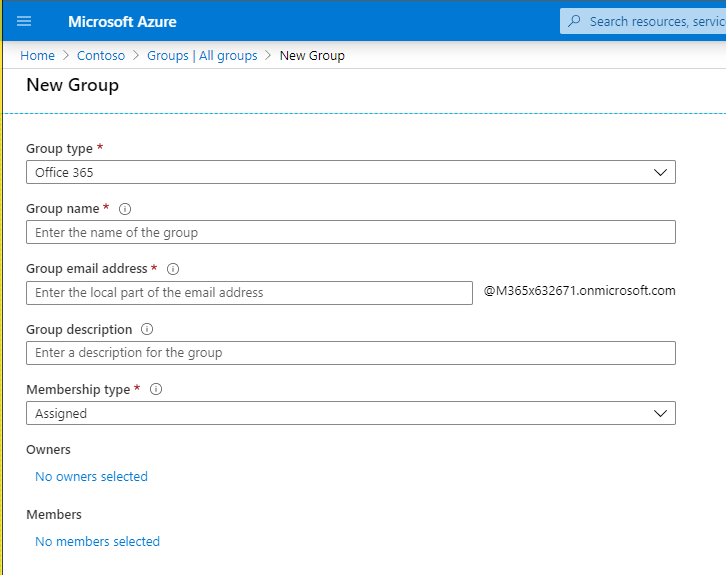
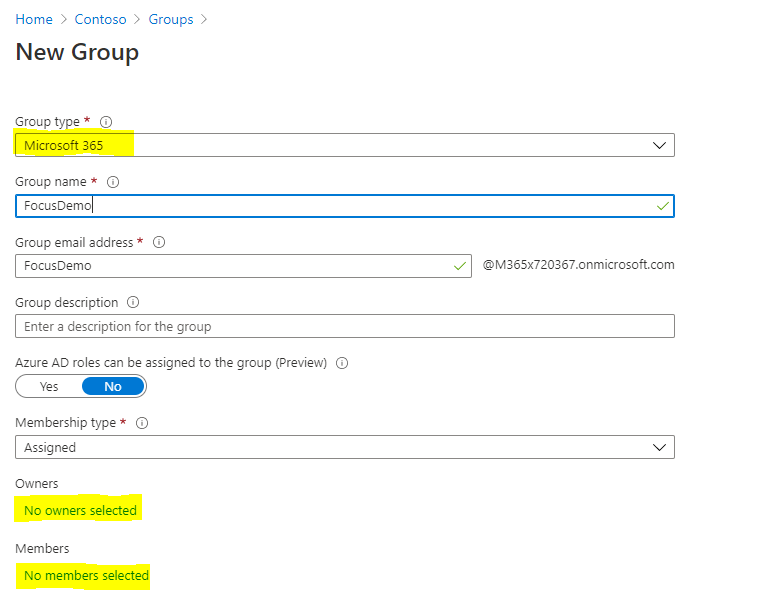
Update module 1 to use the latest term

Changed region(s): [[0.0, 0.0, 1.0, 1.0], [0.9091, 0.2957, 0.9394, 0.3252]]

diff --git a/exercises/Teams/1.Set up Teams.md b/exercises/Teams/1.Set up Teams.md
@@ -6,14 +6,14 @@ In this module you will set up the Teams environment for workshop and learn basi
 2. Navigate to Azure Active Directory > Groups  
 ![Azure AAD](imgs/aad.PNG "Azure active directory")  
 ![Azure AAD Groups](imgs/aadgroup.png "Azure AAD Groups")  
-3. Create a new Office 365 group  
+3. Create a new Microsoft 365 group  
 ![Azure AAD New Group Button](imgs/addnewgroup1.png "Azure AAD New Group Button")  
 ![Azure AAD New Group Panel](imgs/addnewgroup2.png "Azure AAD New Group Panel")  
-4. Add your admin account as the owner and member, add five other Office 365 accounts as members too
+4. Add your admin account as the owner and member, add five other Microsoft 365 accounts as members too
 
 ## Create a Teams team  
 1. Login into [Microsoft Teams](https://teams.microsoft.com), please select the web app option for debugging  
-2. Create a team from the previous Office 365 group  
+2. Create a team from the previous Microsoft 365 group  
 ![Create team button](imgs/createTeamsBtn.PNG "Create team button")
 ![Create team from O365 group](imgs/createTeamsfrom.PNG "Create team from O365 group")
 ![Create team from O365 group](imgs/createTeamsfromO365.PNG "Create team from O365 group")
@@ -22,7 +22,8 @@ In this module you will set up the Teams environment for workshop and learn basi
 
 ## Create a Teams channel  
 1. Create a Teams channel for the Focus app  
-![Create team channel](imgs/CreateChannel.PNG "Create team channel")
+![Create team channel](imgs/CreateChannel.PNG "Create team channel")   
+![Created team channel](imgs/CreateChannelFocus.PNG "Created team channel")  
 ![Created team channel](imgs/CreateChannelResult.PNG "Created team channel")  
 2. Upload the Focus.jpg(exercises/Teams/Focus.jpg) into the channel files
 ![Upload image to channel files](imgs/channelFileUpload.PNG "Upload image to channel files")
